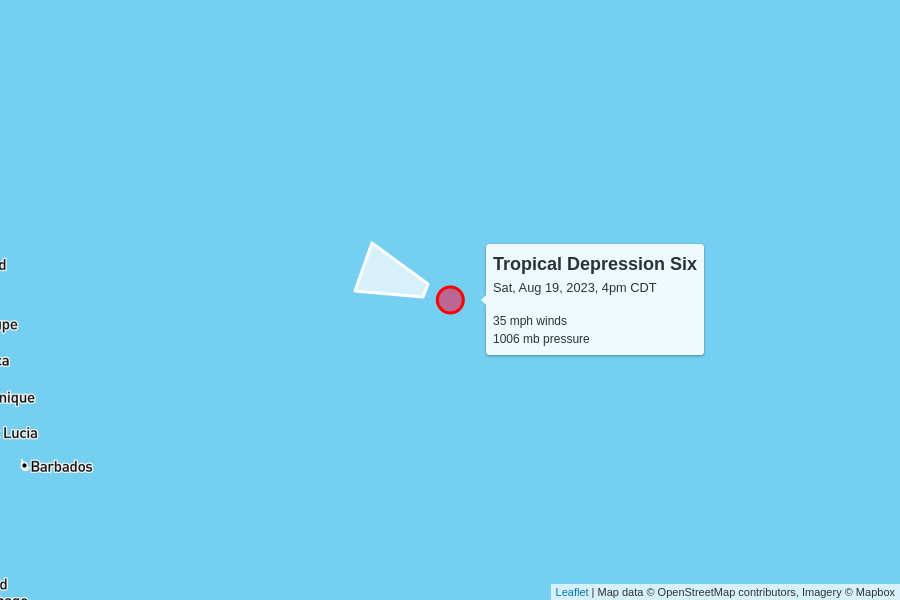
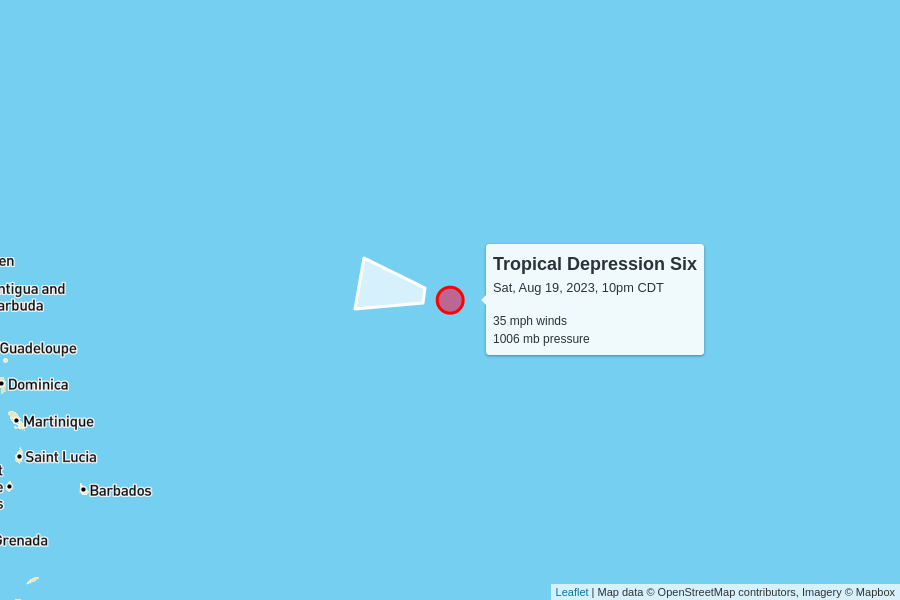
automatic update

diff --git a/docs/index.html b/docs/index.html
@@ -100,7 +100,7 @@
         <td colspan="6" class="storm category-0" >
           <h2>
             Tropical Depression Six
-            <p class="updated">last updated <span data-time>2023-08-19T21:00:00.000Z</span></p>
+            <p class="updated">last updated <span data-time>2023-08-20T03:00:00.000Z</span></p>
           </h2>
         </td>
       </tr>
@@ -118,9 +118,9 @@
         <td>35 mph</td>
         <td>1006 mb</td>
         <td>
-          16 mph to the west-northwest
+          14 mph to the west
           <br/>
-          <span style="display: inline-block; font-size: 1.5em; transform: rotate(290deg);">↑</span>
+          <span style="display: inline-block; font-size: 1.5em; transform: rotate(280deg);">↑</span>
         </td>
         <td><a href="https://raw.githubusercontent.com/mgwalker/atlantic-hurricanes/main/data/csv/AL062023.csv">AL062023.csv</a></td>
         <td><a href="https://www.nhc.noaa.gov/archive/2023/SIX.shtml?">NHC advisories</a></td>
